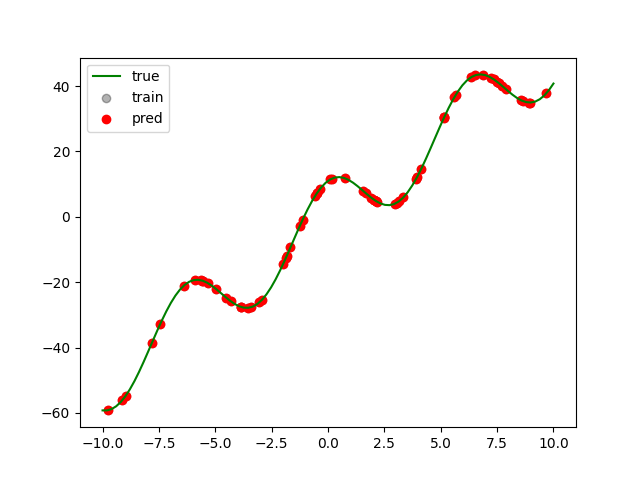
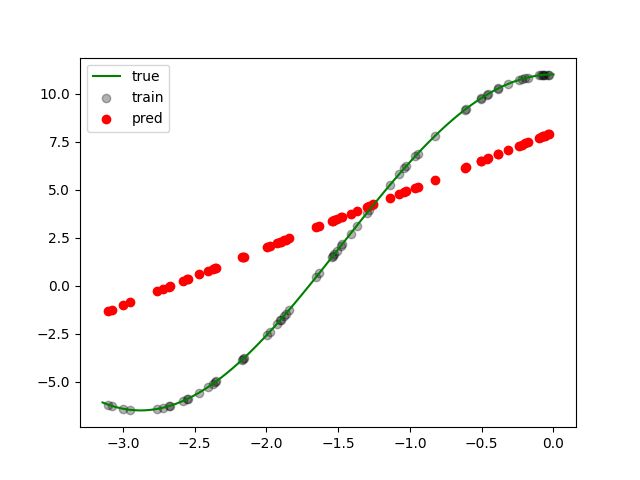
add equal operation and div operator

diff --git a/src/thefittest/optimizers/_geneticprogramming.py b/src/thefittest/optimizers/_geneticprogramming.py
@@ -13,6 +13,7 @@ from ._selections import rank_selection
 from ._selections import tournament_selection
 from ._crossovers import one_point_crossoverGP
 from ._crossovers import standart_crossover
+from ._crossovers import empty_crossover
 from ._mutations import point_mutation
 from ._mutations import growing_mutation
 from ._mutations import constant_gauss_mutation
@@ -52,6 +53,7 @@ from functools import partial
 #         self.fitness = np.array([])
 #         self.
 
+
 class GeneticProgramming(EvolutionaryAlgorithm):
     def __init__(self,
                  fitness_function: Callable[[np.ndarray[Any]], np.ndarray[float]],
@@ -80,8 +82,8 @@ class GeneticProgramming(EvolutionaryAlgorithm):
             keep_history=keep_history)
 
         self.uniset = uniset
-        self.tour_size = 5
-        self.max_level = 15
+        self.tour_size = 2
+        self.max_level = 10
         self.initial_population = None
         self.thefittest: TheFittest
         self.stats: Statistics
@@ -90,7 +92,8 @@ class GeneticProgramming(EvolutionaryAlgorithm):
                        'rank': (rank_selection, None),
                        'tournament': (tournament_selection, self.tour_size)}
 
-        self.c_pool = {'standart': (standart_crossover, 2),
+        self.c_pool = {'empty': (empty_crossover, 1),
+                       'standart': (standart_crossover, 2),
                        'one_point': (one_point_crossoverGP, 2)}
 
         self.m_pool = {'weak_point': (point_mutation, 0.25),
@@ -102,12 +105,12 @@ class GeneticProgramming(EvolutionaryAlgorithm):
                        'weak_gauss': (constant_gauss_mutation, 0.25),
                        'average_gauss': (constant_gauss_mutation, 1),
                        'strong_gauss': (constant_gauss_mutation, 4)}
-        
+
         self.s_set = self.s_pool['tournament']
         self.c_set = self.c_pool['standart']
         self.m_set = self.m_pool['weak_grow']
 
-#добавить сюда max_level
+# добавить сюда max_level
     def set_strategy(self,
                      selection_oper: Optional[str] = None,
                      crossover_oper: Optional[str] = None,
@@ -124,7 +127,7 @@ class GeneticProgramming(EvolutionaryAlgorithm):
             self.tour_size = tour_size_param
         self.initial_population = initial_population
         return self
-    
+
     def create_offspring(self, population_g, fitness_scale, fitness_rank, _):
         crossover_func, quantity = self.c_set
         selection_func, tour_size = self.s_set
@@ -134,7 +137,7 @@ class GeneticProgramming(EvolutionaryAlgorithm):
                                  fitness_rank,
                                  tour_size,
                                  quantity)
-        
+
         parents = population_g[indexes]
         fitness_scale_p = fitness_scale[indexes]
         fitness_rank_p = fitness_rank[indexes]
@@ -145,10 +148,9 @@ class GeneticProgramming(EvolutionaryAlgorithm):
         mutant = mutation_func(offspring_no_mutated, self.uniset, proba)
         return mutant
 
-
-
     def fit(self):
-        population_g = half_and_half(self.pop_size, self.uniset, self.max_level)
+        population_g = half_and_half(
+            self.pop_size, self.uniset, self.max_level)
         population_ph = self.genotype_to_phenotype(population_g)
         fitness = self.evaluate(population_ph)
         fitness_scale = scale_data(fitness)
@@ -185,7 +187,7 @@ class GeneticProgramming(EvolutionaryAlgorithm):
                 self.thefittest.update(population_g, population_ph, fitness)
                 lastbest.update(self.thefittest.fitness)
                 # if self.keep_history:
-                    # self.stats.update(population_g,
-                    #                   population_ph,
-                    #                   fitness)
+                # self.stats.update(population_g,
+                #                   population_ph,
+                #                   fitness)
         return self

diff --git a/src/test_gp.py b/src/test_gp.py
@@ -13,6 +13,7 @@ from thefittest.optimizers._operators import Pow
 from thefittest.optimizers._operators import Cos
 from thefittest.optimizers._operators import Sin
 from thefittest.optimizers._operators import Neg
+from thefittest.optimizers._operators import Div
 from thefittest.tools import donothing
 from sklearn.model_selection import train_test_split
 from thefittest.optimizers import GeneticProgramming
@@ -27,7 +28,7 @@ def graph(some_tree):
 
     for i, node in enumerate(reverse_nodes):
         labels[len(reverse_nodes) - i -
-            #    1] = str(len(reverse_nodes) - i - 1) + '. ' + node.sign  # один раз развернуть или вообще не разворачивать а сразу считать так
+               #    1] = str(len(reverse_nodes) - i - 1) + '. ' + node.sign  # один раз развернуть или вообще не разворачивать а сразу считать так
                1] = node.sign
 
         nodes.append(len(reverse_nodes) - i - 1)
@@ -89,11 +90,14 @@ def root_mean_square_error(y_true, y_predict):
 # def problem(x):
 #     return np.cos(x[:, 0]) + 5*x[:, 1]
 
-def problem(x):
-    return 11*np.cos(x[:, 0]) + 5*x[:, 0]
 
-left = -10
-right = 10
+def problem(x):
+    # return x[:,0]*x[:,0]
+    return 11*np.cos(x[:, 0]) + 0.5*x[:, 0]*x[:, 0]
+
+
+left = -np.pi
+right = 0
 size = 100
 n_vars = 1
 X = np.random.uniform(left, right, size=(size, n_vars))
@@ -104,13 +108,15 @@ X_train, X_test, y_train, y_test = train_test_split(
     X, y, test_size=0.33, random_state=42)
 
 uniset = UniversalSet(functional_set=(Add(),
-                                      Cos(),
-                                      Sin(),
+                                      #   Cos(),
+                                      #   Sin(),
+                                      Div(),
                                       Mul(),
-                                    #   Neg()
+                                      Neg()
                                       ),
                       terminal_set={'x0': X_train[:, 0]},
-                      constant_set=(range(10)))
+                      constant_set=(1, 3, 5, 7)
+                      )
 
 
 def fitness_function(trees):
@@ -118,10 +124,10 @@ def fitness_function(trees):
     for tree in trees:
         y_pred = tree.compile()*np.ones(len(y_train))
         level = tree.get_max_level()
-        if level > 25:
+        if level > 50:
             fine = 0.1*level
         else:
-            fine = 0.
+            fine = 0
         fitness.append(root_mean_square_error(y_train, y_pred) + fine)
     return np.array(fitness)
 
@@ -129,9 +135,10 @@ def fitness_function(trees):
 model = GeneticProgramming(fitness_function=fitness_function,
                            genotype_to_phenotype=donothing,
                            uniset=uniset,
-                           pop_size=200, iters=100,
+                           pop_size=1000, iters=1000,
                            show_progress_each=10,
-                           minimization=True)
+                           minimization=True,
+                           no_increase_num=100)
 
 model.fit()
 
@@ -144,9 +151,9 @@ y_plot = problem(x_plot)
 
 y_pred = fittest.compile()*np.ones_like(y_train)
 
-plt.plot(x_plot, y_plot, label = 'true', color = 'green')
-plt.scatter(X_train, y_train, label = 'train', color = 'black', alpha=0.3)
-plt.scatter(X_train, y_pred, label = 'pred', color = 'red')
+plt.plot(x_plot, y_plot, label='true', color='green')
+plt.scatter(X_train, y_train, label='train', color='black', alpha=0.3)
+plt.scatter(X_train, y_pred, label='pred', color='red')
 plt.legend()
 plt.savefig('line1.png')
 plt.close()

diff --git a/src/thefittest/optimizers/_initializations.py b/src/thefittest/optimizers/_initializations.py
@@ -82,8 +82,35 @@ def half_and_half(pop_size, uniset, level_max):
     population = []
     first_part = int(pop_size/2)
     second_part = pop_size - first_part
-    for _ in range(first_part):
-        population.append(full_growing_method(uniset, level_max))
-    for _ in range(second_part):
-        population.append(growing_method(uniset, level_max))
+
+    first_part_by_level = np.linspace(1, level_max, first_part, dtype=int)
+    second_part_by_level = np.linspace(1, level_max, second_part, dtype=int)
+    k = 0
+    for level in first_part_by_level:
+        new_tree = full_growing_method(uniset, level)
+        equals = [new_tree != individ for individ in population]
+        
+        if len(equals) > 0:
+            while np.any(equals):
+                new_tree = full_growing_method(uniset, level)
+                equals = [new_tree == individ for individ in population]
+                k+=1
+                if k > pop_size:
+                    break
+        
+        population.append(new_tree)
+    k = 0 
+    for level in second_part_by_level:
+        new_tree = growing_method(uniset, level)
+        equals = [new_tree != individ for individ in population]
+        
+        if len(equals) > 0:
+            while np.any(equals):
+                new_tree = growing_method(uniset, level)
+                equals = [new_tree == individ for individ in population]
+                k+=1
+                if k > pop_size:
+                    break
+        population.append(new_tree)
+        
     return np.array(population, dtype=object)

diff --git a/src/thefittest/optimizers/_base.py b/src/thefittest/optimizers/_base.py
@@ -188,7 +188,15 @@ class Tree:
     
     def get_max_level(self):
         return np.max(self.levels)
-
+    
+    def __eq__(self, other):
+        if len(self.nodes) != len(other.nodes):
+            return False
+        else:
+            for node_1, node_2 in zip(self.nodes, other.nodes):
+                if np.all(node_1.value != node_2.value):
+                    return False
+        return True
 
 class FunctionalNode:
     def __init__(self, value):
@@ -249,17 +257,8 @@ class UniversalSet:
         return to_return
 
     def mutate_constant(self, constant):
-        new_value = np.random.normal(constant.value, 1)
+        new_value = constant.value*np.random.normal(1, 0.1)
         return TerminalConstantNode(new_value)
-
-    # def mutate_constant(self, constant):
-    #     if len(self.constant_set) > 1:
-    #         remains = list(filter(lambda x: x != constant,
-    #                               self.constant_set))
-    #         to_return = random.choice(remains)
-    #     else:
-    #         to_return = list(self.constant_set)[0]
-    #     return to_return
 
     def mutate_functional(self, functional):
         n_args = functional.n_args

diff --git a/src/test_equalgp.py b/src/test_equalgp.py
@@ -1,0 +1,29 @@
+from thefittest.optimizers._base import Tree
+from thefittest.optimizers._base import UniversalSet
+from thefittest.optimizers._operators import Mul
+from thefittest.optimizers._operators import Add3
+from thefittest.optimizers._operators import Add
+from thefittest.optimizers._operators import Pow
+from thefittest.optimizers._operators import Cos
+from thefittest.optimizers._operators import Sin
+from thefittest.optimizers._operators import Neg
+from thefittest.optimizers._initializations import growing_method, full_growing_method
+import numpy as np
+
+
+uniset = UniversalSet(functional_set=(Add(),
+                                      Cos(),
+                                      #   Sin(),
+                                      Mul(),
+                                      Neg()
+                                      ),
+                      terminal_set={'x0': np.array([1, 2, 3])},
+                      constant_set=(1, 3, 5, 7))
+
+tree_1 = growing_method(uniset, 15)
+tree_2 = tree_1.copy()
+
+print(tree_1)
+print(tree_2)
+
+print(tree_1 == tree_2)

diff --git a/src/thefittest/optimizers/_operators.py b/src/thefittest/optimizers/_operators.py
@@ -84,3 +84,17 @@ class Pow(Operator):
 
     def __call__(self, x, y):
         return x**y
+    
+class Div(Operator):
+    def __init__(self):
+        self.formula = '({}/{})'
+        self.__name__ = 'div'
+        self.sign = '/'
+
+    def __call__(self, x, y):
+        if type(y) == np.ndarray:
+            mask = y == 0
+            y[mask] = 1e-6
+        else:
+            y = 1e-6
+        return x/y

diff --git a/src/thefittest/optimizers/_crossovers.py b/src/thefittest/optimizers/_crossovers.py
@@ -135,6 +135,7 @@ def one_point_crossoverGP(individs, fitness, rank):
     individ_1 = individs[0]
     individ_2 = individs[1]
     common_indexes = common_region([individ_1, individ_2])
+    
     point = np.random.randint(0,  len(common_indexes[0]))
     first_point = common_indexes[0][point]
     second_point = common_indexes[1][point]
